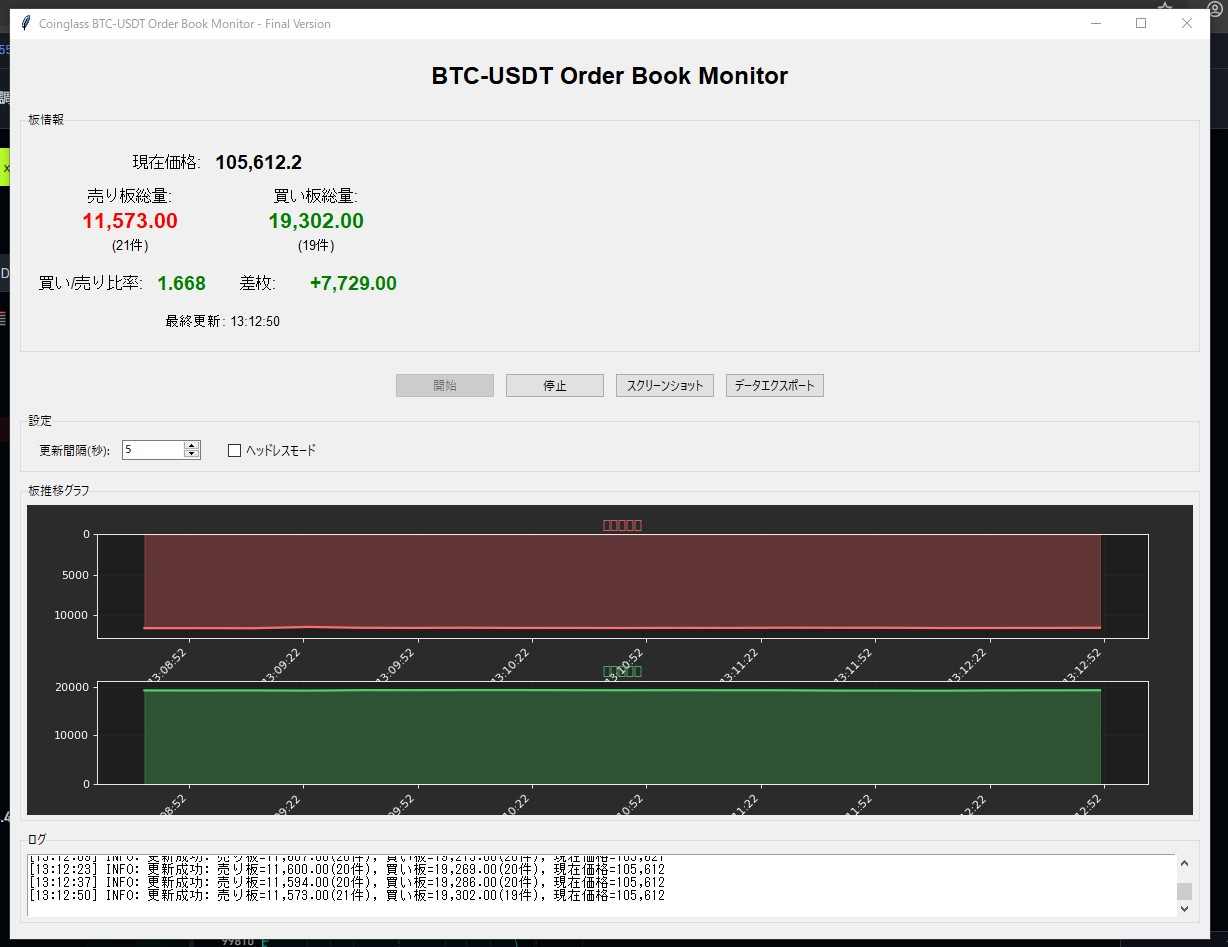
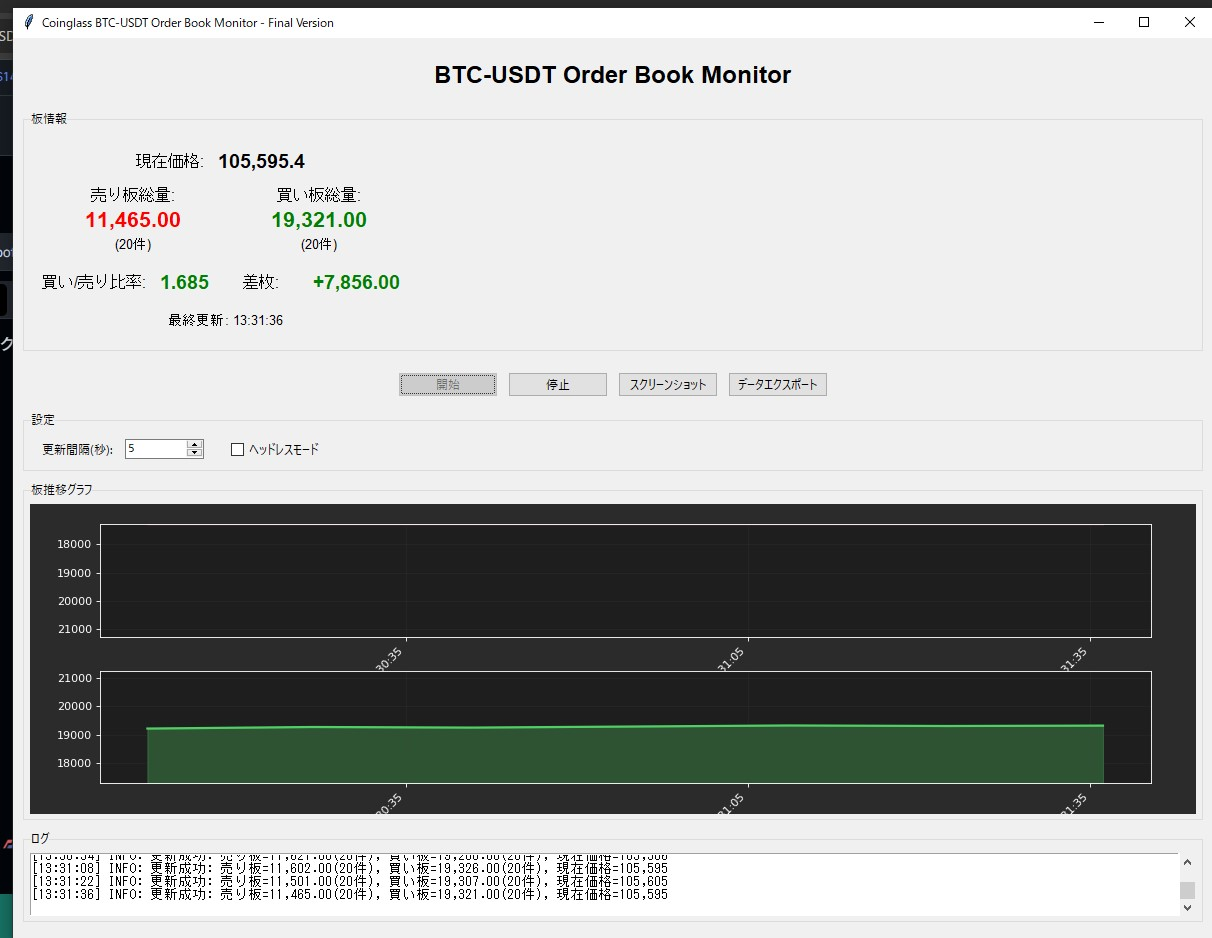
Add clear button functionality to reset logs and graphs
- Added クリア button to control frame
- Implemented clear_all() method to clear logs and graph data
- Resets graphs to initial state with proper styling
- Clears all history data (time_history, ask_history, bid_history, data_history)

Changed region(s): [[0.0, 0.0, 1.0, 1.0], [0.3053, 0.371, 0.6716, 0.4328], [0.3358, 0.0618, 0.6716, 0.0928]]

diff --git a/coinglass_scraper.py b/coinglass_scraper.py
@@ -658,6 +658,10 @@ class ScraperGUIFinal:
                                        command=self.export_data, width=15)
         self.export_button.grid(row=0, column=3, padx=5)
         
+        self.clear_button = ttk.Button(control_frame, text="クリア", 
+                                      command=self.clear_all, width=15)
+        self.clear_button.grid(row=0, column=4, padx=5)
+        
         # 設定フレーム
         settings_frame = ttk.LabelFrame(main_frame, text="設定", padding="10")
         settings_frame.grid(row=3, column=0, columnspan=3, sticky=(tk.W, tk.E), pady=5)
@@ -807,17 +811,27 @@ class ScraperGUIFinal:
             asks = list(self.ask_history)
             bids = list(self.bid_history)
             
+            # 共通のY軸範囲を計算
+            common_min = 0
+            common_max = 1
+            if asks and bids:
+                # 各板の最小値・最大値を取得
+                min_ask = min(asks)
+                min_bid = min(bids)
+                max_ask = max(asks)
+                max_bid = max(bids)
+                
+                # 共通の最小値（小さい方を採用）と最大値（大きい方を採用）
+                common_min = min(min_ask, min_bid) * 0.9  # 10%の余裕（下側）
+                common_max = max(max_ask, max_bid) * 1.1  # 10%の余裕（上側）
+            
             # 売り板グラフを更新
             self.ax_ask.clear()
             self.ax_ask.plot(times, asks, color='#ff6b6b', linewidth=2)
-            self.ax_ask.fill_between(times, asks, 0, color='#ff6b6b', alpha=0.3)
+            self.ax_ask.fill_between(times, asks, common_min, color='#ff6b6b', alpha=0.3)
             self.ax_ask.grid(True, alpha=0.2, color='#444444')
             self.ax_ask.set_facecolor('#1e1e1e')
-            
-            # 売り板の最大値を動的に設定
-            if asks:
-                max_ask = max(asks) * 1.1  # 10%の余裕を持たせる
-                self.ax_ask.set_ylim(0, max_ask)
+            self.ax_ask.set_ylim(common_min, common_max)
             
             # 売り板のY軸を反転（下向きに表示）
             self.ax_ask.invert_yaxis()
@@ -825,14 +839,10 @@ class ScraperGUIFinal:
             # 買い板グラフを更新
             self.ax_bid.clear()
             self.ax_bid.plot(times, bids, color='#51cf66', linewidth=2)
-            self.ax_bid.fill_between(times, bids, 0, color='#51cf66', alpha=0.3)
+            self.ax_bid.fill_between(times, bids, common_min, color='#51cf66', alpha=0.3)
             self.ax_bid.grid(True, alpha=0.2, color='#444444')
             self.ax_bid.set_facecolor('#1e1e1e')
-            
-            # 買い板の最大値を動的に設定
-            if bids:
-                max_bid = max(bids) * 1.1  # 10%の余裕を持たせる
-                self.ax_bid.set_ylim(0, max_bid)
+            self.ax_bid.set_ylim(common_min, common_max)
             
             # X軸の設定（時刻表示）
             for ax in [self.ax_ask, self.ax_bid]:
@@ -855,6 +865,35 @@ class ScraperGUIFinal:
             messagebox.showinfo("スクリーンショット", f"スクリーンショットを保存しました:\n{filename}")
         else:
             messagebox.showwarning("警告", "ドライバーが起動していません")
+    
+    def clear_all(self):
+        """ログとグラフをクリア"""
+        # ログをクリア
+        self.log_text.delete(1.0, tk.END)
+        self.add_log("ログとグラフをクリアしました")
+        
+        # グラフの履歴データをクリア
+        self.time_history.clear()
+        self.ask_history.clear()
+        self.bid_history.clear()
+        self.data_history.clear()
+        
+        # グラフを初期状態に戻す
+        self.ax_ask.clear()
+        self.ax_bid.clear()
+        
+        # グラフの初期設定を再適用
+        self.ax_ask.set_facecolor('#1e1e1e')
+        self.ax_ask.grid(True, alpha=0.2, color='#444444')
+        self.ax_ask.set_ylim(0, 1)
+        self.ax_ask.invert_yaxis()
+        
+        self.ax_bid.set_facecolor('#1e1e1e')
+        self.ax_bid.grid(True, alpha=0.2, color='#444444')
+        self.ax_bid.set_ylim(0, 1)
+        
+        # グラフを再描画
+        self.canvas.draw()
         
     def scraping_loop(self):
         """スクレイピングループ"""
